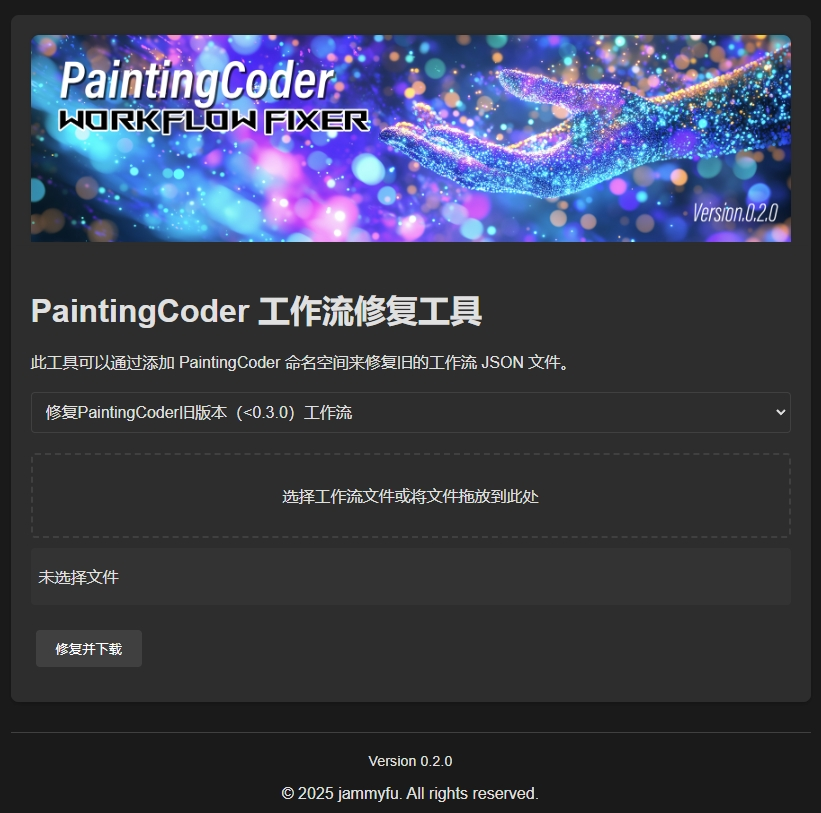
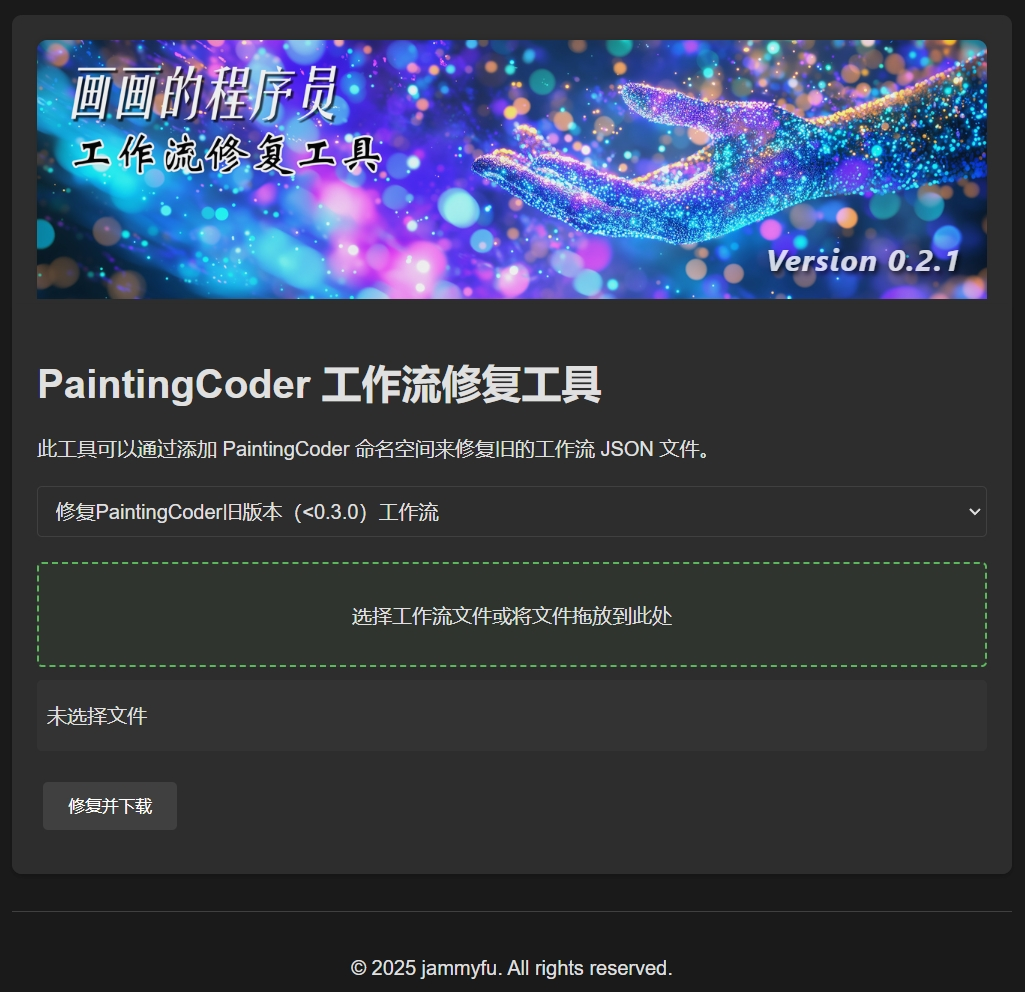
fix html;change pictures

diff --git a/docs/fix/workflow_fixer.html b/docs/fix/workflow_fixer.html
@@ -175,9 +175,10 @@
         /* 修改头图容器样式 */
         .header-image {
             text-align: center;
-            margin: 20px auto 0;  /* 上边距20px，左右自动居中，下边距0 */
-            max-width: 800px;     /* 与container保持相同宽度 */
-            padding: 20px 20px 0; /* 上左右内边距20px，下内边距0 */
+            margin: 20px auto 0;
+            max-width: 800px;
+            padding: 20px 20px 0;
+            position: relative;  /* 添加相对定位 */
         }
         
         .header-image img {
@@ -208,25 +209,27 @@
             box-shadow: 0 2px 4px rgba(0,0,0,0.1);
         }
         
-        /* 添加拖拽区域样式 */
+        /* 更新拖拽区域样式 */
         .file-drop-zone {
-            border: 2px dashed var(--drop-zone-border);
+            border: 2px dashed var(--success-color);  /* 使用绿色边框 */
             border-radius: 4px;
-            padding: 30px;  /* 增加内边距使区域更大 */
+            padding: 30px;
             text-align: center;
-            background-color: var(--drop-zone-bg);
+            background-color: rgba(76, 175, 80, 0.05);  /* 浅绿色背景 */
             cursor: pointer;
             transition: all 0.3s ease;
             color: var(--text-color);
         }
         
-        .file-drop-zone.dragover {
-            border-color: var(--drop-zone-hover);
-            background-color: var(--drop-zone-hover-bg);
+        .file-drop-zone:hover {
+            border-color: var(--success-hover);  /* 深绿色边框 */
+            background-color: rgba(76, 175, 80, 0.1);  /* 更深的绿色背景 */
         }
         
-        .file-drop-zone:hover {
-            border-color: var(--drop-zone-hover);
+        .file-drop-zone.dragover {
+            border-color: var(--success-hover);
+            background-color: rgba(76, 175, 80, 0.15);  /* 拖拽时最深的绿色背景 */
+            transform: scale(1.01);  /* 轻微放大效果 */
         }
         
         #dragText {
@@ -277,6 +280,21 @@
         * {
             transition: background-color 0.3s ease, color 0.3s ease, border-color 0.3s ease;
         }
+
+        /* 更新版本号样式 */
+        .version-tag {
+            position: absolute;
+            bottom: 20px;
+            right: 40px;
+            color: #FFFFFF; 
+            font-family: 'Segoe UI', Tahoma, Geneva, Verdana, sans-serif;
+            font-style: italic;
+            font-weight: bold; /* 加粗字体 */
+            font-size: 1.5em;  /* 增加字体大小 */
+            letter-spacing: 1px;
+            opacity: 0.8;
+            text-shadow: 2px 2px 4px rgba(0,0,0,1); /* 增强阴影效果 */
+        }
     </style>
 </head>
 <body>
@@ -284,8 +302,9 @@
         <!-- 头图容器 -->
         <div class="header-image">
             <a href="https://github.com/jammyfu/ComfyUI_PaintingCoderUtils" target="_blank" title="Visit PaintingCoder on GitHub">
-                <img src="https://raw.githubusercontent.com/jammyfu/ComfyUI_PaintingCoderUtils/main/docs/images/workflow_fix_top_banner01.jpg" alt="Painting Coder Logo">
+                <img src="../images/workflow_fix_top_banner01.jpg" alt="Painting Coder Logo">
             </a>
+            <span class="version-tag">Version 0.2.1</span>
         </div>
         
         <!-- 主内容容器 -->
@@ -342,7 +361,6 @@
     
     <!-- 页脚 -->
     <footer style="text-align: center; padding: 20px; margin-top: 30px; border-top: 1px solid var(--border-color);">
-        <p id="version" style="color: var(--text-color); font-size: 0.9em; margin: 0;">Version 0.2.0</p>
         <p style="margin-bottom: 5px;">© 2025 jammyfu. All rights reserved.</p>
     </footer>
 
@@ -476,9 +494,9 @@
             // 更新头图
             const headerImage = document.querySelector('.header-image img');
             if (currentLanguage === 'zh') {
-                headerImage.src = "https://raw.githubusercontent.com/jammyfu/ComfyUI_PaintingCoderUtils/main/docs/images/workflow_fix_top_banner01.jpg";
+                headerImage.src = "../images/workflow_fix_top_banner02.jpg";
             } else {
-                headerImage.src = "https://raw.githubusercontent.com/jammyfu/ComfyUI_PaintingCoderUtils/main/docs/images/workflow_fix_top_banner01.jpg";
+                headerImage.src = "../images/workflow_fix_top_banner01.jpg";
             }
         }
 
